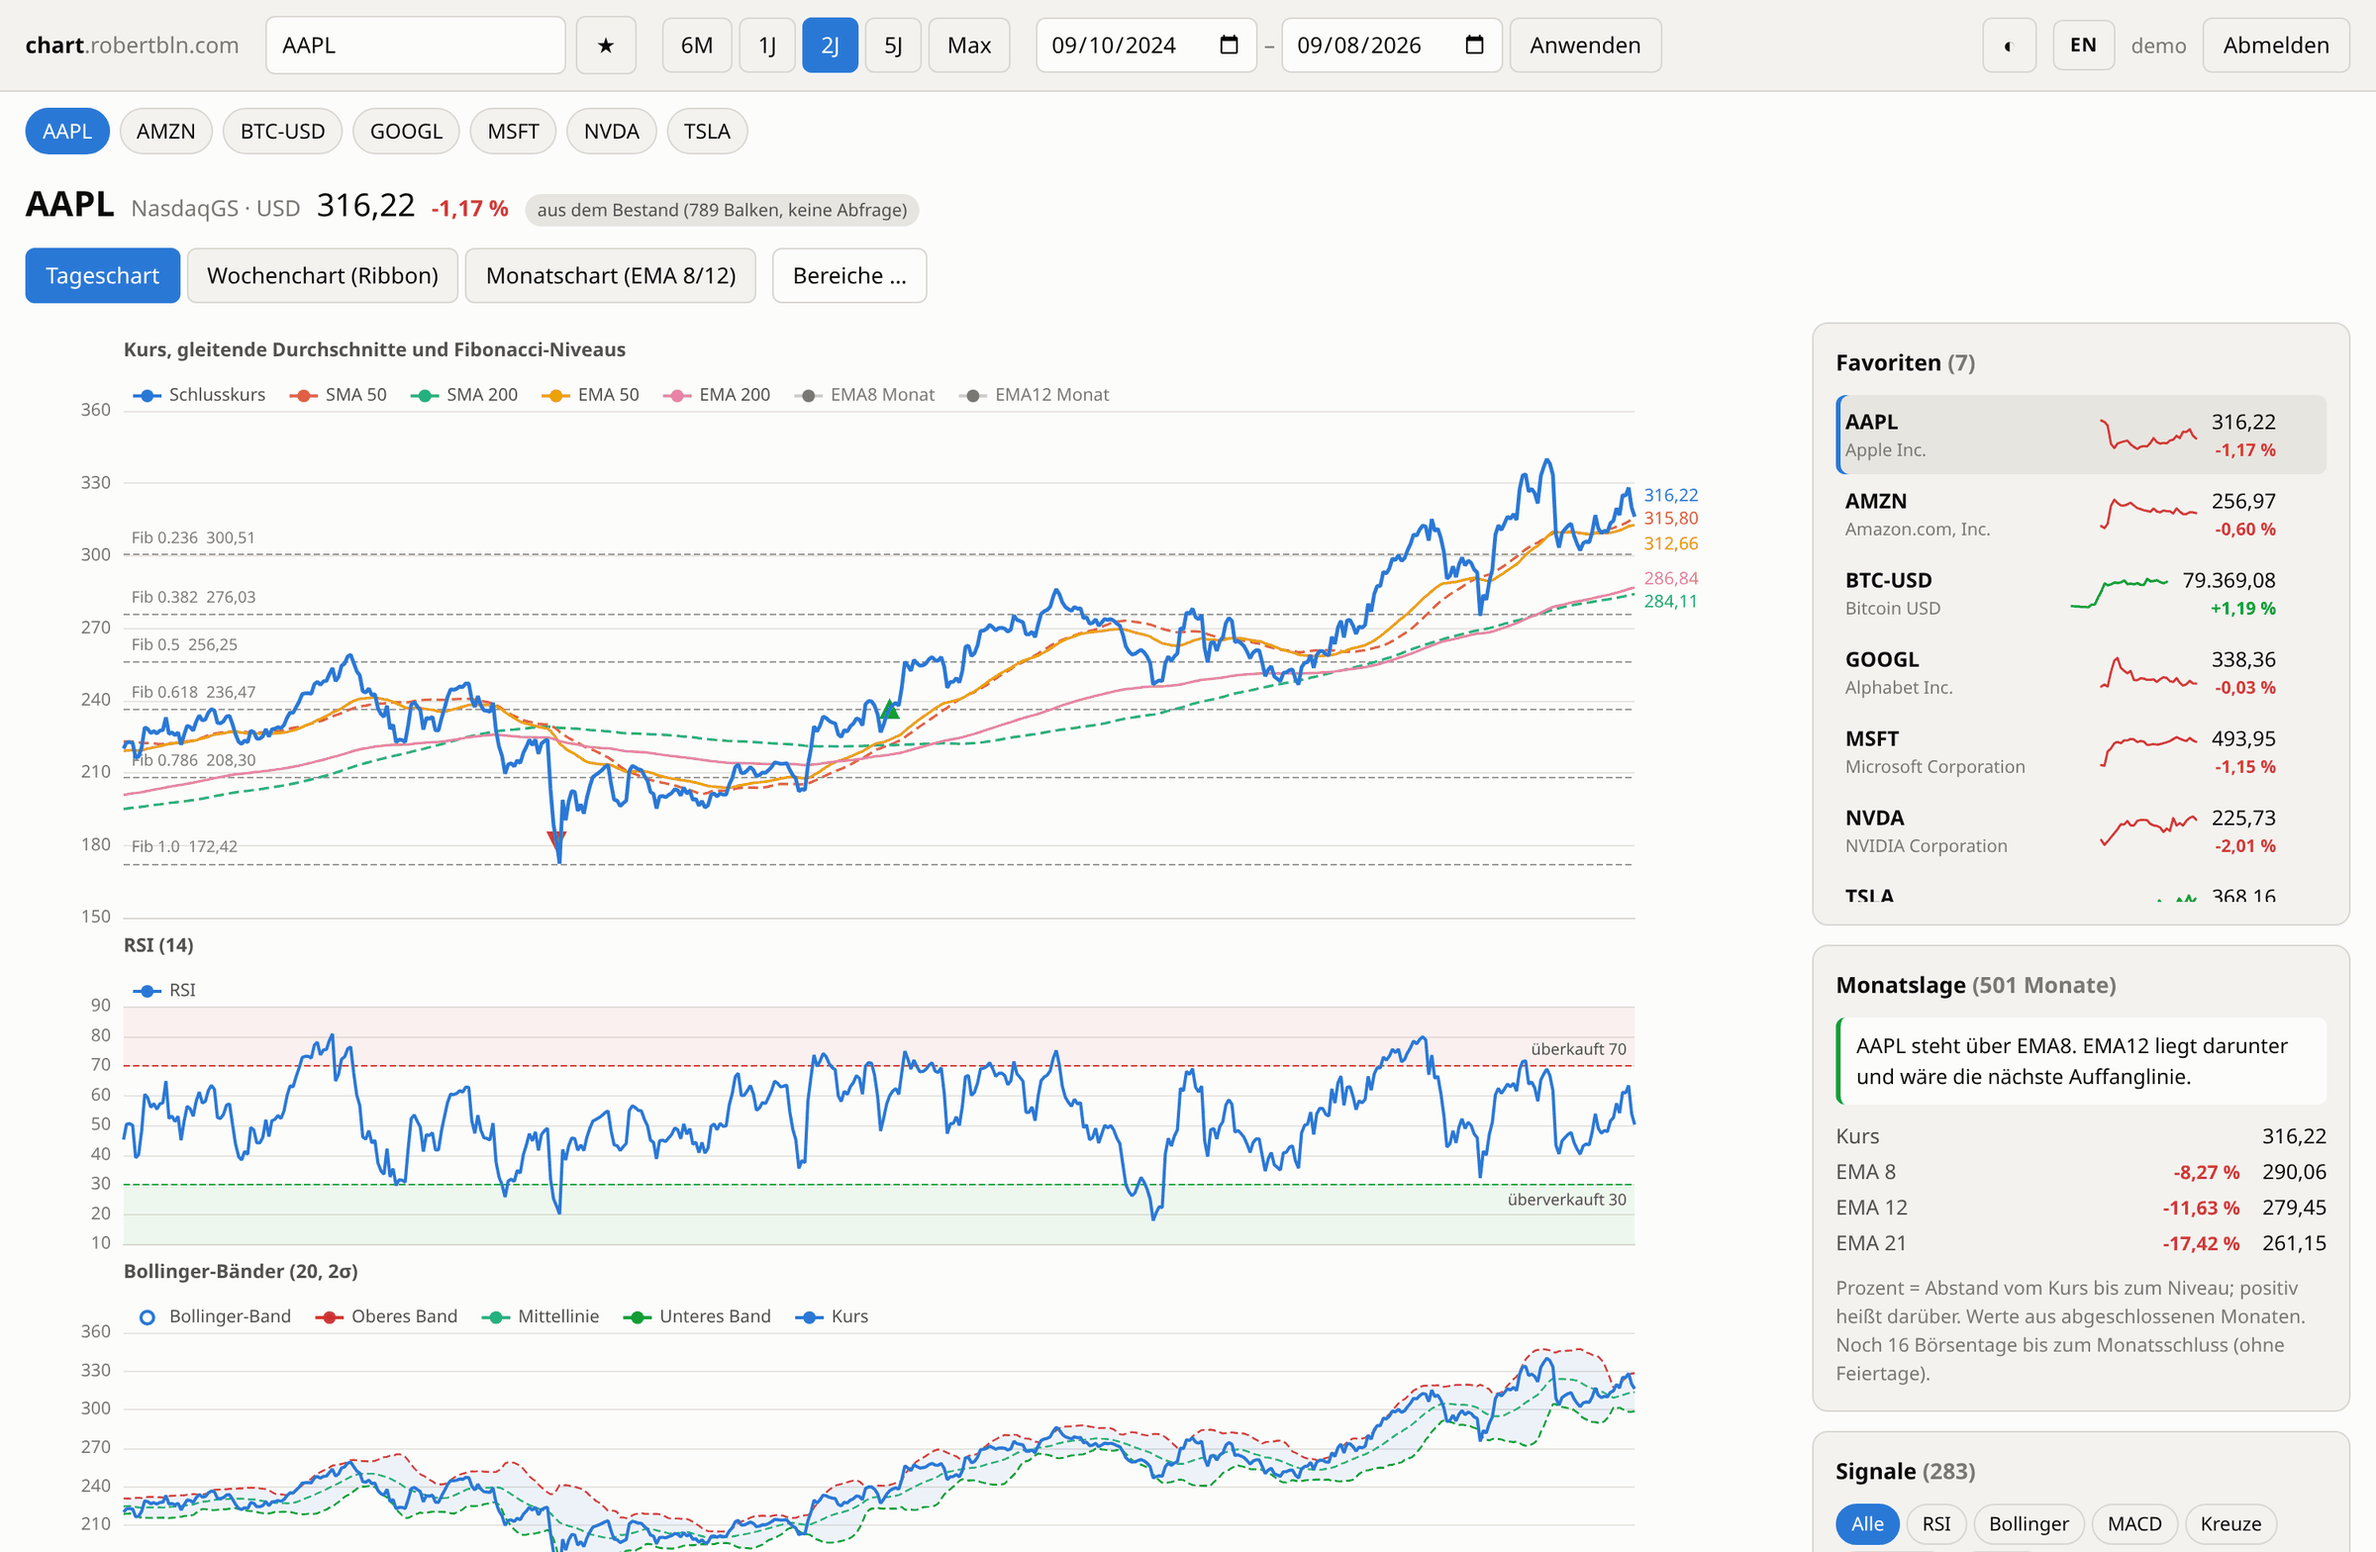
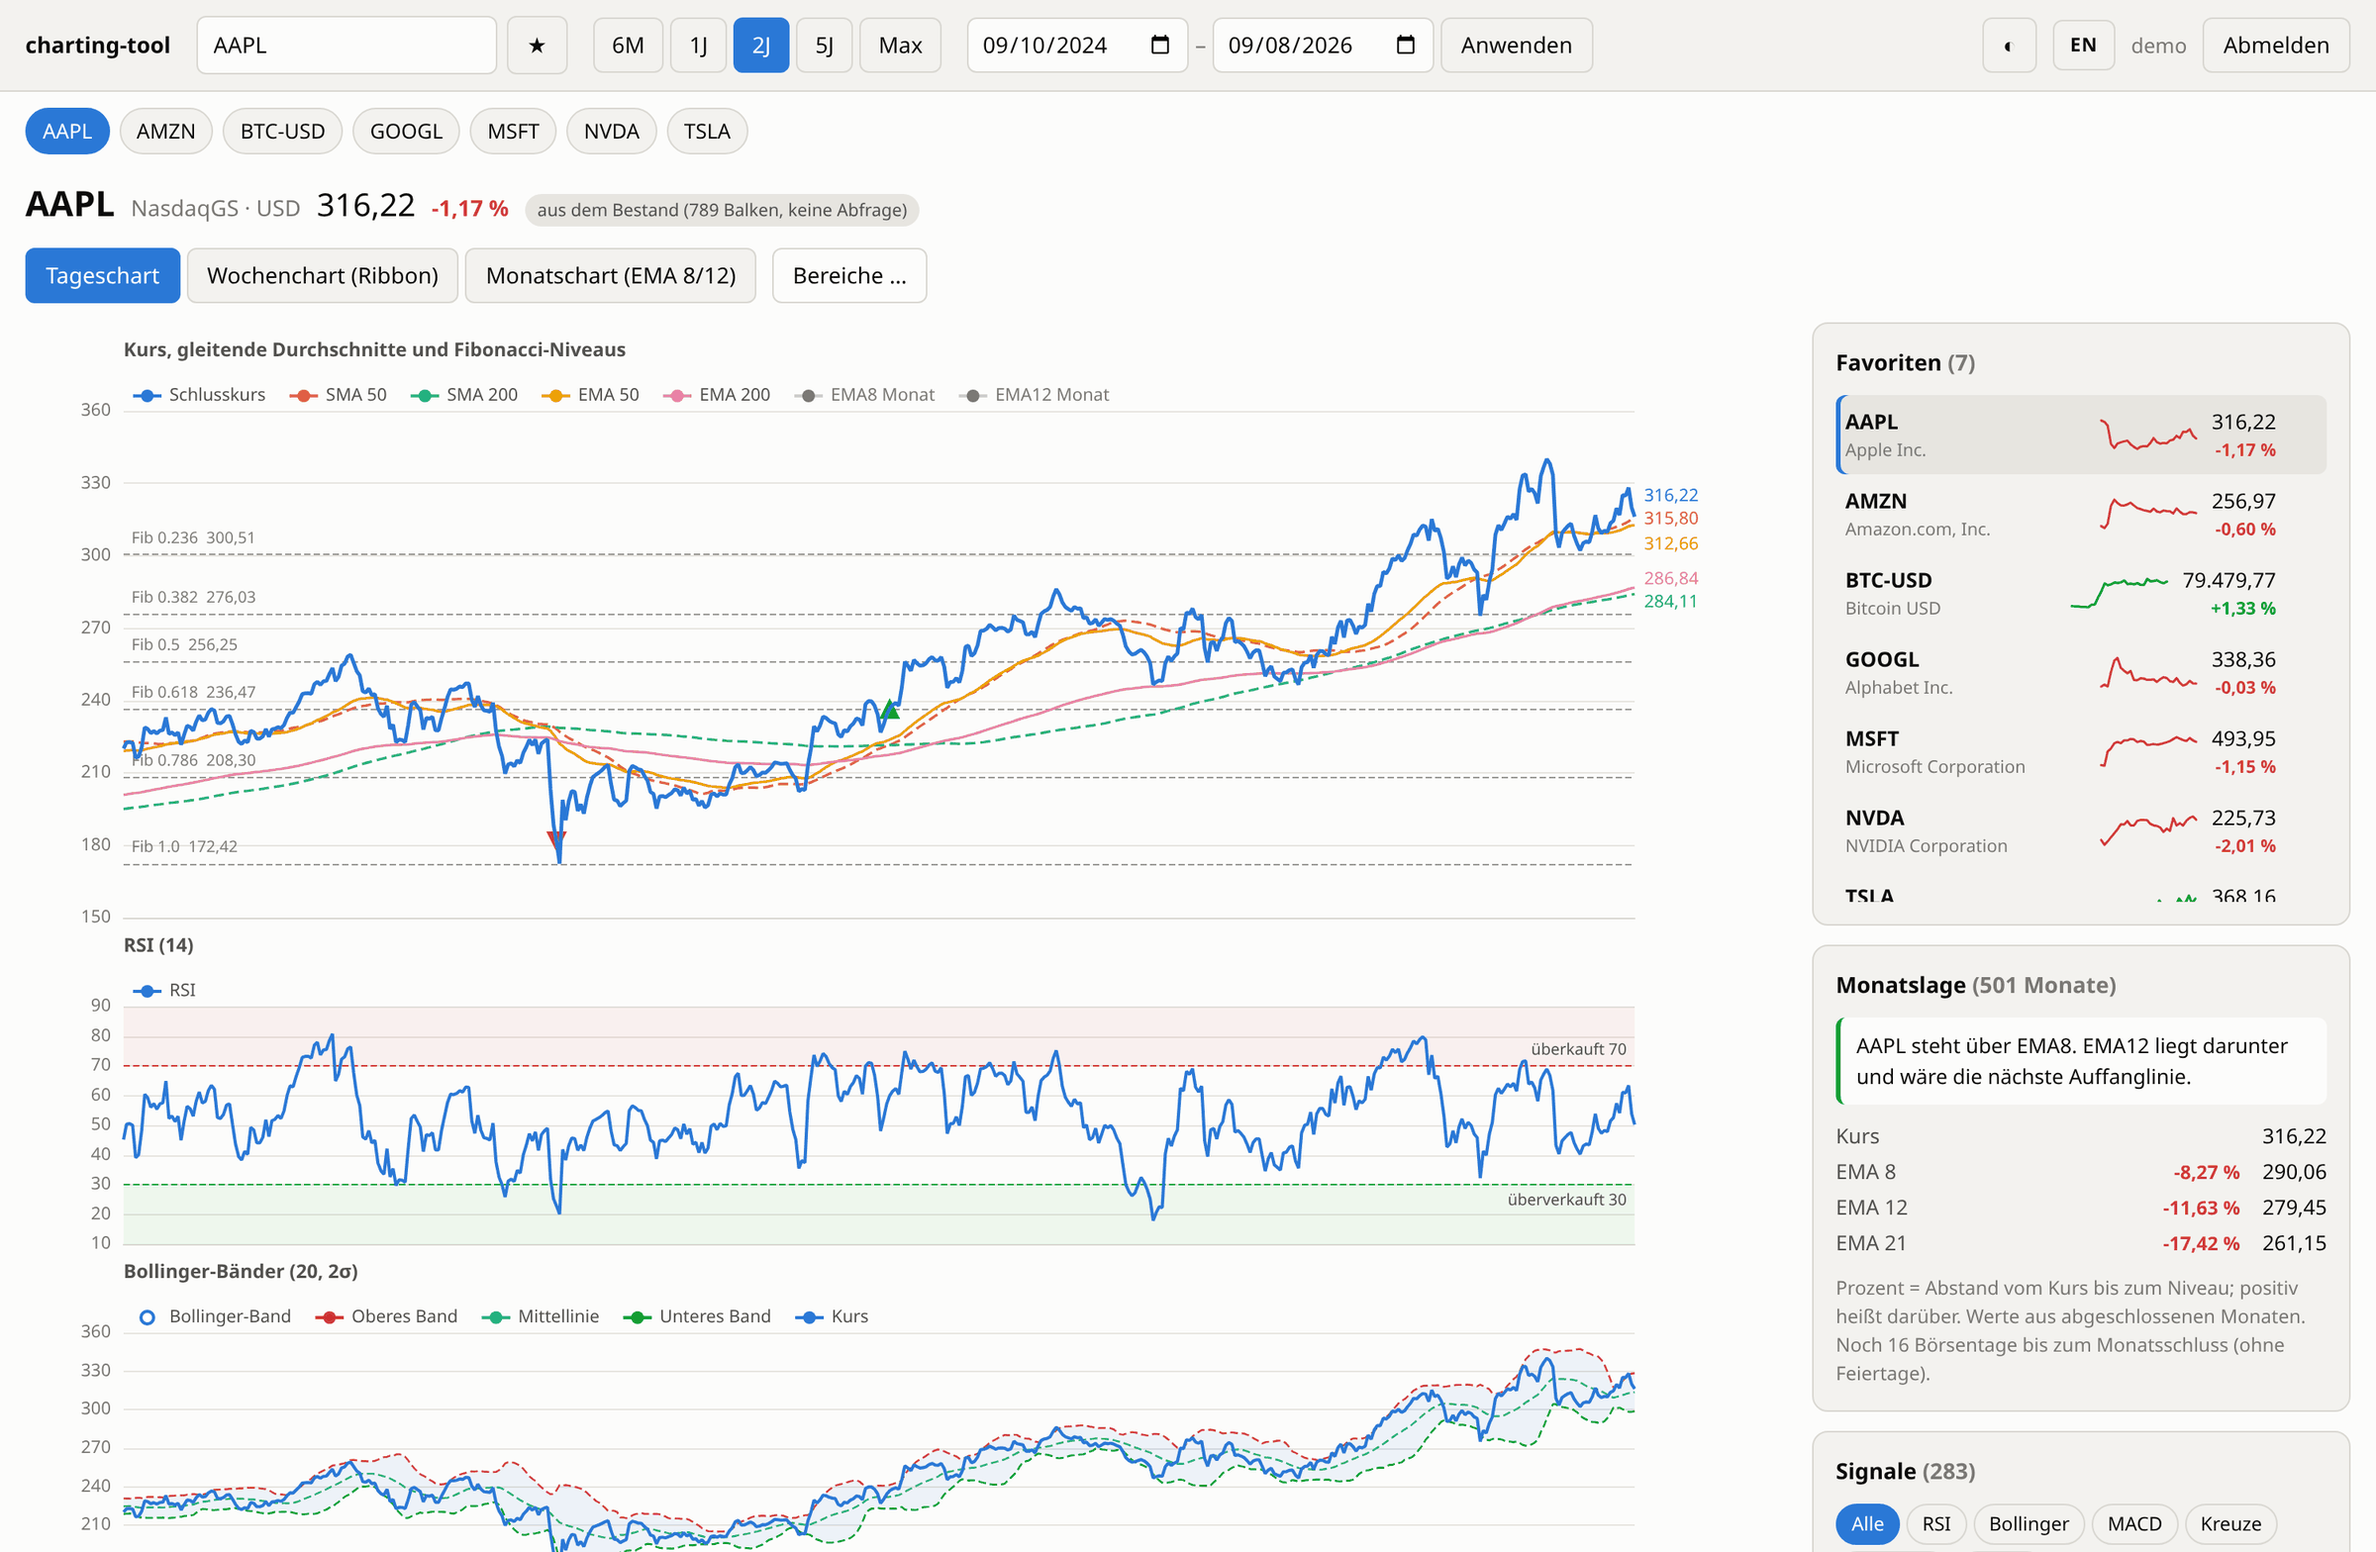
Make the name in the top bar configurable
The templates, the FastAPI title and two header comments carried
chart.robertbln.com -- one particular deployment's domain, sitting in a
public repository where it serves nobody. It is now BRAND, defaulting to
"charting-tool"; everything up to the first dot renders in the strong colour
and the rest muted, so a value like chart.example.com looks exactly as the
hardcoded one did.

Screenshots retaken with the default, so they show what someone cloning this
actually gets rather than a stranger's hostname.

Claude-Session: https://claude.ai/code/session_01LkH2ZqqRGzvJeGuFZWrdHq

Changed region(s): [[0.25, 0.0, 0.6875, 0.0625], [0.0312, 0.0, 0.125, 0.0312]]

diff --git a/app/templates/login.html b/app/templates/login.html
@@ -12,7 +12,7 @@
 </head>
 <body class="login-page">
   <main class="login-box">
-    <h1>chart<span>.robertbln.com</span></h1>
+    <h1>{{ brand[0] }}<span>{{ brand[1] }}</span></h1>
     <p class="sub">{{ t("login.subtitle") }}</p>
 
     {% if error %}<p class="error" role="alert">{{ error }}</p>{% endif %}

diff --git a/app/templates/index.html b/app/templates/index.html
@@ -12,7 +12,7 @@
 </head>
 <body>
 <header class="topbar">
-  <div class="brand">chart<span>.robertbln.com</span></div>
+  <div class="brand">{{ brand[0] }}<span>{{ brand[1] }}</span></div>
 
   <div class="search">
     <input id="symbol" type="text" placeholder="{{ t('index.ticker_placeholder') }}"

diff --git a/app/static/app.js b/app/static/app.js
@@ -1,4 +1,4 @@
-/* Interface for chart.robertbln.com.
+/* Interface for the charting tool.
  *
  * The daily chart consists of several coordinate systems ("grids") stacked on
  * top of each other with a shared time axis. One crosshair runs across all

diff --git a/app/src/main.py b/app/src/main.py
@@ -1,4 +1,4 @@
-"""chart.robertbln.com -- price charts with indicators, behind a sign-in.
+"""A self-hosted charting tool -- price charts with indicators, behind a sign-in.
 
 Started in the container via uvicorn (see Dockerfile). Create a user with:
 
@@ -39,9 +39,19 @@ if not config.SECRET_KEY or len(config.SECRET_KEY) < 32:
         '  SECRET_KEY=$(python3 -c "import secrets; print(secrets.token_hex(32))")'
     )
 
-app = FastAPI(title="chart.robertbln.com", docs_url=None, redoc_url=None, openapi_url=None)
+app = FastAPI(title=config.BRAND, docs_url=None, redoc_url=None, openapi_url=None)
 app.mount("/static", StaticFiles(directory="static"), name="static")
 templates = Jinja2Templates(directory="templates")
+
+
+def brand_parts() -> tuple[str, str]:
+    """config.BRAND split for the two weights the template renders it in.
+
+    Up to the first dot goes into the strong part, the dot and everything
+    after it into the muted one. A name without a dot stays in one piece.
+    """
+    head, dot, tail = config.BRAND.partition(".")
+    return head, dot + tail
 
 
 def _asset_version() -> str:
@@ -204,7 +214,8 @@ def login_form(request: Request):
     response = templates.TemplateResponse(
         request, "login.html",
         {"csrf": csrf, "error": None, "asset_version": ASSET_VERSION,
-         "lang": language, "t": i18n.translator(language)}
+         "lang": language, "t": i18n.translator(language),
+         "brand": brand_parts()}
     )
     # Double submit cookie: the form carries the same value as a hidden field,
     # a foreign form could not get at the cookie.
@@ -237,7 +248,7 @@ def login_submit(
         resp = templates.TemplateResponse(
             request, "login.html",
             {"csrf": token, "error": message, "asset_version": ASSET_VERSION,
-             "lang": language, "t": t},
+             "lang": language, "t": t, "brand": brand_parts()},
             status_code=status
         )
         resp.set_cookie(
@@ -314,7 +325,8 @@ def index(request: Request):
     return templates.TemplateResponse(
         request, "index.html",
         {"username": user["username"], "asset_version": ASSET_VERSION,
-         "lang": language, "t": i18n.translator(language)})
+         "lang": language, "t": i18n.translator(language),
+         "brand": brand_parts()})
 
 
 # --- API ------------------------------------------------------------------

diff --git a/app/src/config.py b/app/src/config.py
@@ -43,3 +43,12 @@ LOG_BACKUPS = int(os.getenv("LOG_BACKUPS", "5"))
 # Time zone of the timestamps in the access log. The container runs on UTC,
 # but the log is meant to be read by a person in Berlin.
 LOG_TIMEZONE = os.getenv("LOG_TIMEZONE", "Europe/Berlin")
+
+# Name in the top bar and above the sign-in form. Everything up to the first
+# dot is set in the strong colour, the rest muted, so "chart.example.com"
+# reads as one name in two weights.
+#
+# Configurable rather than written into the template: the repository is
+# public, and a particular deployment's domain has no business sitting in it
+# -- neither for whoever clones this, nor for whoever runs it.
+BRAND = os.getenv("BRAND", "charting-tool")

diff --git a/README.md b/README.md
@@ -140,6 +140,7 @@ Everything is set through the environment, usually in `.env`. Only
 
 | Variable | Default | Meaning |
 |---|---|---|
+| `BRAND` | `charting-tool` | Name in the top bar and above the sign-in form. Everything up to the first dot is set in the strong colour, the rest muted — `chart.example.com` reads as one name in two weights. |
 | `SECRET_KEY` | — | At least 32 characters. Generate with `python3 -c "import secrets; print(secrets.token_hex(32))"` |
 | `DATA_DIR` | `/data` | Directory of the SQLite database and the log, inside the container |
 | `SESSION_HOURS` | `12` | Lifetime of a normal session |
